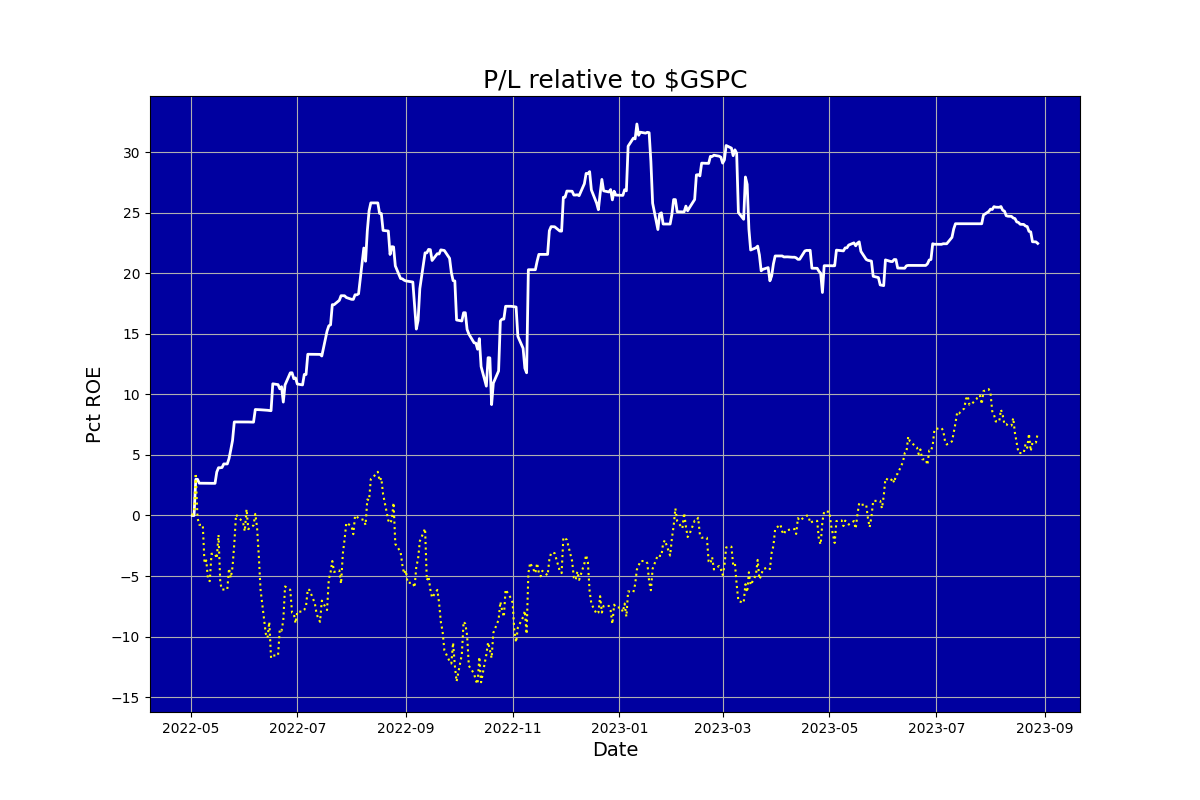
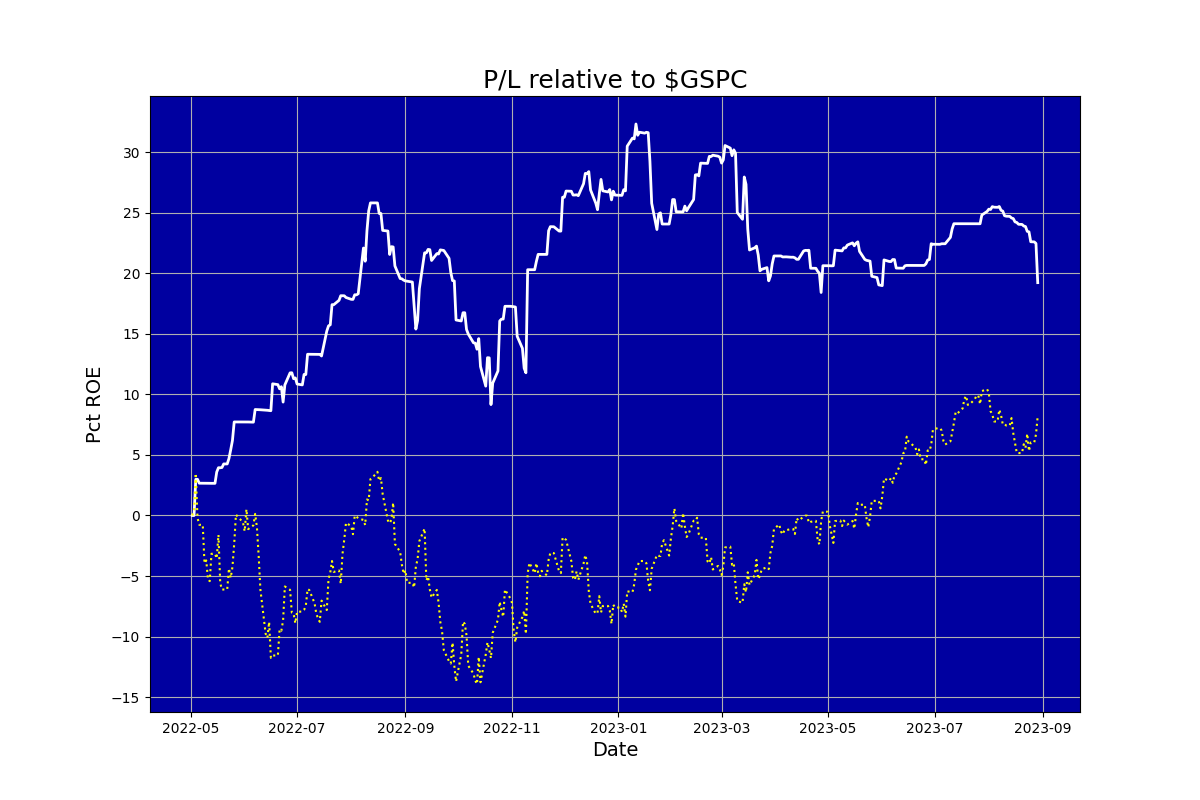
Updated

diff --git a/ig_report.html b/ig_report.html
@@ -1,1 +1,1 @@
-<html><body><center><h1>Auriel (never knowingly overbought)</h1></center><table cols=2><tr><td><img src=ig_pl.png></td><td><table cols=2><tr><td colspan=2><b><br>Snapshot</b></td></tr><tr><td>Last updated:&nbsp;&nbsp;&nbsp;</td><td>2023-08-28 15:54</td></tr><tr><td>Margin:&nbsp;&nbsp;&nbsp;</td><td>0.60</td></tr><tr><td>Cushion:&nbsp;&nbsp;&nbsp;</td><td>-41335.43</td></tr><tr><td>Last closed trade:&nbsp;&nbsp;&nbsp;</td><td>2023-08-28</td></tr><tr><td colspan=2><b><br>Positions</b></td></tr><tr><td>Mean days to new high:&nbsp;&nbsp;&nbsp;</td><td>14.67</td></tr><tr><td colspan=2><b><br>Trades</b></td></tr><tr><td>Traded days:&nbsp;&nbsp;&nbsp;</td><td>352</td></tr><tr><td>Profitable days pct:&nbsp;&nbsp;&nbsp;</td><td>35.51</td></tr><tr><td>Days beat S&P pct:&nbsp;&nbsp;&nbsp;</td><td>54.65</td></tr><tr><td>Profitable months pct:&nbsp;&nbsp;&nbsp;</td><td>62.50</td></tr><tr><td colspan=2><b><br>Performance</b></td></tr><tr><td>Pct median monthly ROE:&nbsp;&nbsp;&nbsp;</td><td>1.28</td></tr><tr><td>Pct annualised ROE:&nbsp;&nbsp;&nbsp;</td><td>15.96</td></tr><tr><td colspan=2><b><br>Risk</b></td></tr><tr><td>Volatility pct:&nbsp;&nbsp;&nbsp;</td><td>17.05</td></tr><tr><td>Benchmark volatility pct:&nbsp;&nbsp;&nbsp;</td><td>20.22</td></tr><tr><td>Sharpe ratio (RFR 5.0%):&nbsp;&nbsp;&nbsp;</td><td>0.74</td></tr><tr><td>Sortino ratio (RFR 5.0%):&nbsp;&nbsp;&nbsp;</td><td>1.01</td></tr><tr><td>Calmar ratio:&nbsp;&nbsp;&nbsp;</td><td>0.96</td></tr><tr><td>Worst drawdown pct:&nbsp;&nbsp;&nbsp;</td><td>-0.17</td></tr><tr><td>Recovery days from worst drawdown:&nbsp;&nbsp;&nbsp;</td><td>29.00</td></tr><tr><td>Beat benchmark +ve periods pct:&nbsp;&nbsp;&nbsp;</td><td>36.47</td></tr><tr><td>Beat benchmark -ve periods pct:&nbsp;&nbsp;&nbsp;</td><td>87.98</td></tr><tr><td>Correlation with benchmark:&nbsp;&nbsp;&nbsp;</td><td>0.35</td></tr></table></td></tr></table></body></html>
+<html><body><center><h1>Auriel (never knowingly overbought)</h1></center><table cols=2><tr><td><img src=ig_pl.png></td><td><table cols=2><tr><td colspan=2><b><br>Snapshot</b></td></tr><tr><td>Last updated:&nbsp;&nbsp;&nbsp;</td><td>2023-08-29 15:57</td></tr><tr><td>Margin:&nbsp;&nbsp;&nbsp;</td><td>0.06</td></tr><tr><td>Cushion:&nbsp;&nbsp;&nbsp;</td><td>-40316.42</td></tr><tr><td>Last closed trade:&nbsp;&nbsp;&nbsp;</td><td>2023-08-29</td></tr><tr><td colspan=2><b><br>Positions</b></td></tr><tr><td>Mean days to new high:&nbsp;&nbsp;&nbsp;</td><td>14.71</td></tr><tr><td colspan=2><b><br>Trades</b></td></tr><tr><td>Traded days:&nbsp;&nbsp;&nbsp;</td><td>353</td></tr><tr><td>Profitable days pct:&nbsp;&nbsp;&nbsp;</td><td>35.41</td></tr><tr><td>Days beat S&P pct:&nbsp;&nbsp;&nbsp;</td><td>54.19</td></tr><tr><td>Profitable months pct:&nbsp;&nbsp;&nbsp;</td><td>62.50</td></tr><tr><td colspan=2><b><br>Performance</b></td></tr><tr><td>Pct median monthly ROE:&nbsp;&nbsp;&nbsp;</td><td>1.28</td></tr><tr><td>Pct annualised ROE:&nbsp;&nbsp;&nbsp;</td><td>13.62</td></tr><tr><td colspan=2><b><br>Risk</b></td></tr><tr><td>Volatility pct:&nbsp;&nbsp;&nbsp;</td><td>17.25</td></tr><tr><td>Benchmark volatility pct:&nbsp;&nbsp;&nbsp;</td><td>20.23</td></tr><tr><td>Sharpe ratio (RFR 5.0%):&nbsp;&nbsp;&nbsp;</td><td>0.60</td></tr><tr><td>Sortino ratio (RFR 5.0%):&nbsp;&nbsp;&nbsp;</td><td>0.80</td></tr><tr><td>Calmar ratio:&nbsp;&nbsp;&nbsp;</td><td>0.82</td></tr><tr><td>Worst drawdown pct:&nbsp;&nbsp;&nbsp;</td><td>-0.17</td></tr><tr><td>Recovery days from worst drawdown:&nbsp;&nbsp;&nbsp;</td><td>29.00</td></tr><tr><td>Beat benchmark +ve periods pct:&nbsp;&nbsp;&nbsp;</td><td>36.27</td></tr><tr><td>Beat benchmark -ve periods pct:&nbsp;&nbsp;&nbsp;</td><td>87.88</td></tr><tr><td>Correlation with benchmark:&nbsp;&nbsp;&nbsp;</td><td>0.33</td></tr></table></td></tr></table></body></html>
